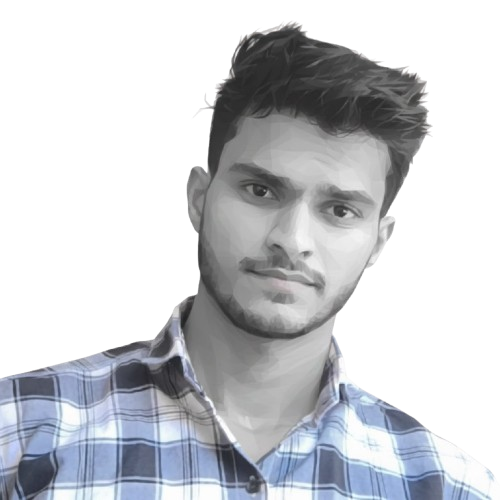
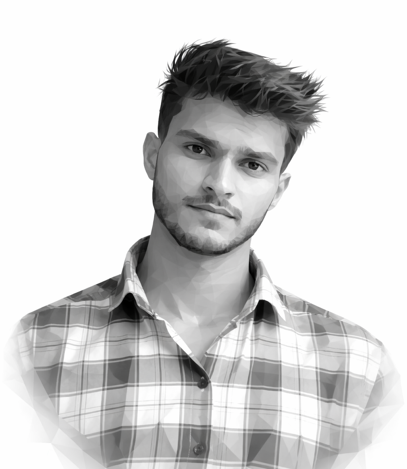
profile

diff --git a/src/components/windows/programs/welcome/index.js b/src/components/windows/programs/welcome/index.js
@@ -466,9 +466,8 @@ const Welcome = (props) => {
             </nav>
             
             <div className="header-content" style={{flex: 1, display: 'flex', flexDirection: 'column', alignItems: 'center', justifyContent: 'center', textAlign: 'center', padding: '0 20px', marginTop: '0'}}>
-                <div className="image-container" style={{marginBottom: '18px', position: 'relative'}}>
+                <div className="image-container" style={{marginBottom: '18px'}}>
                     <img src={require("./img/Person.png")} alt="Sudhir Sharma" style={{width: '250px', height: 'auto', filter: 'grayscale(100%)', borderRadius: '0', display: 'block', boxShadow: 'none', border: 'none', background: 'transparent'}} />
-                    <div style={{position: 'absolute', bottom: '0', left: '-50px', right: '-50px', height: '3px', background: '#000'}}></div>
                 </div>
                 <div className="intro-text" style={{fontFamily: 'Georgia, serif', fontSize: '1.4rem', color: '#666', marginBottom: '8px', letterSpacing: '0.5px'}}>
                     Hello! I'm
